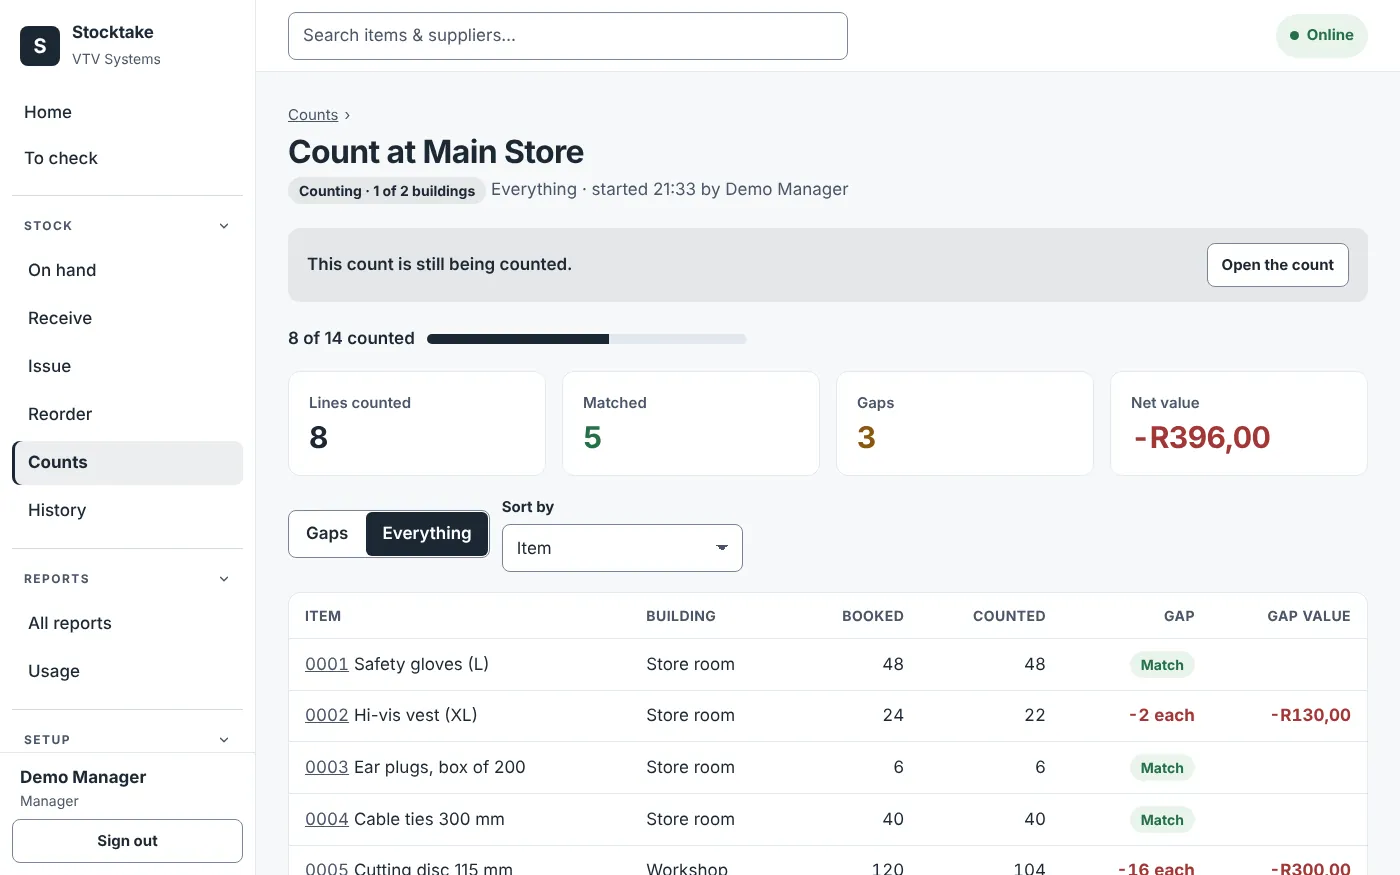
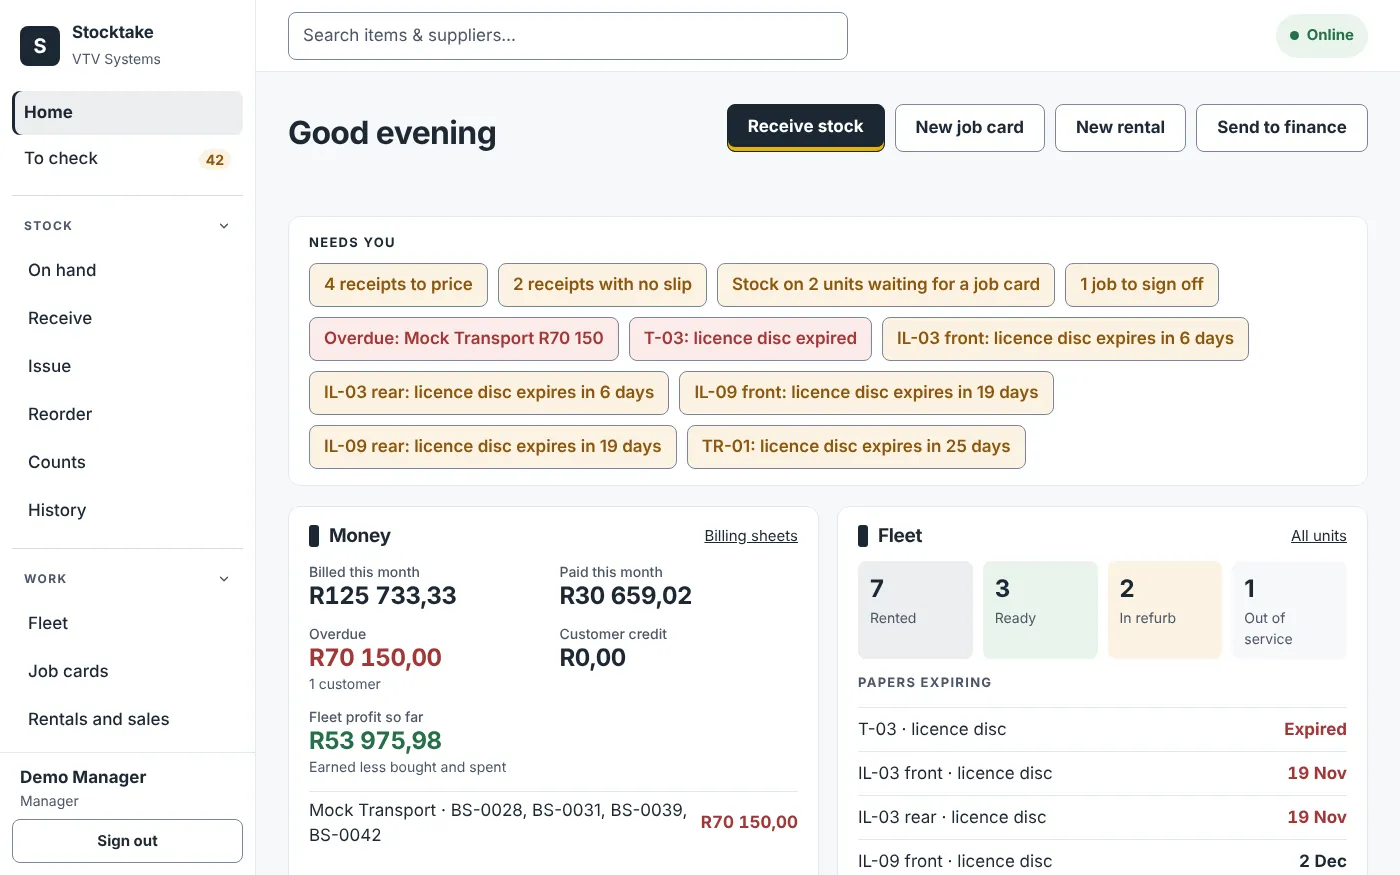
Stocktake screenshot: the manager home screen

diff --git a/index.html b/index.html
@@ -414,7 +414,7 @@
         <article class="sys">
           <div class="shot">
             <a class="zoom" href="/img/stocktake.webp" data-zoom>
-              <span class="sr-only">Open full size: </span><img src="/img/stocktake.webp" alt="A stock count in progress in Stocktake: 8 of 14 items counted, 5 matched and 3 with a gap, and the first counted lines with booked and counted quantities and each gap's value in rand." width="1400" height="875" loading="lazy">
+              <span class="sr-only">Open full size: </span><img src="/img/stocktake.webp" alt="Stocktake's home screen for a manager: quick buttons, a Needs you list with receipts to price, an overdue customer and licence discs about to expire, and the Money and Fleet summaries." width="1400" height="875" loading="lazy">
             </a>
           </div>
           <div class="info">
